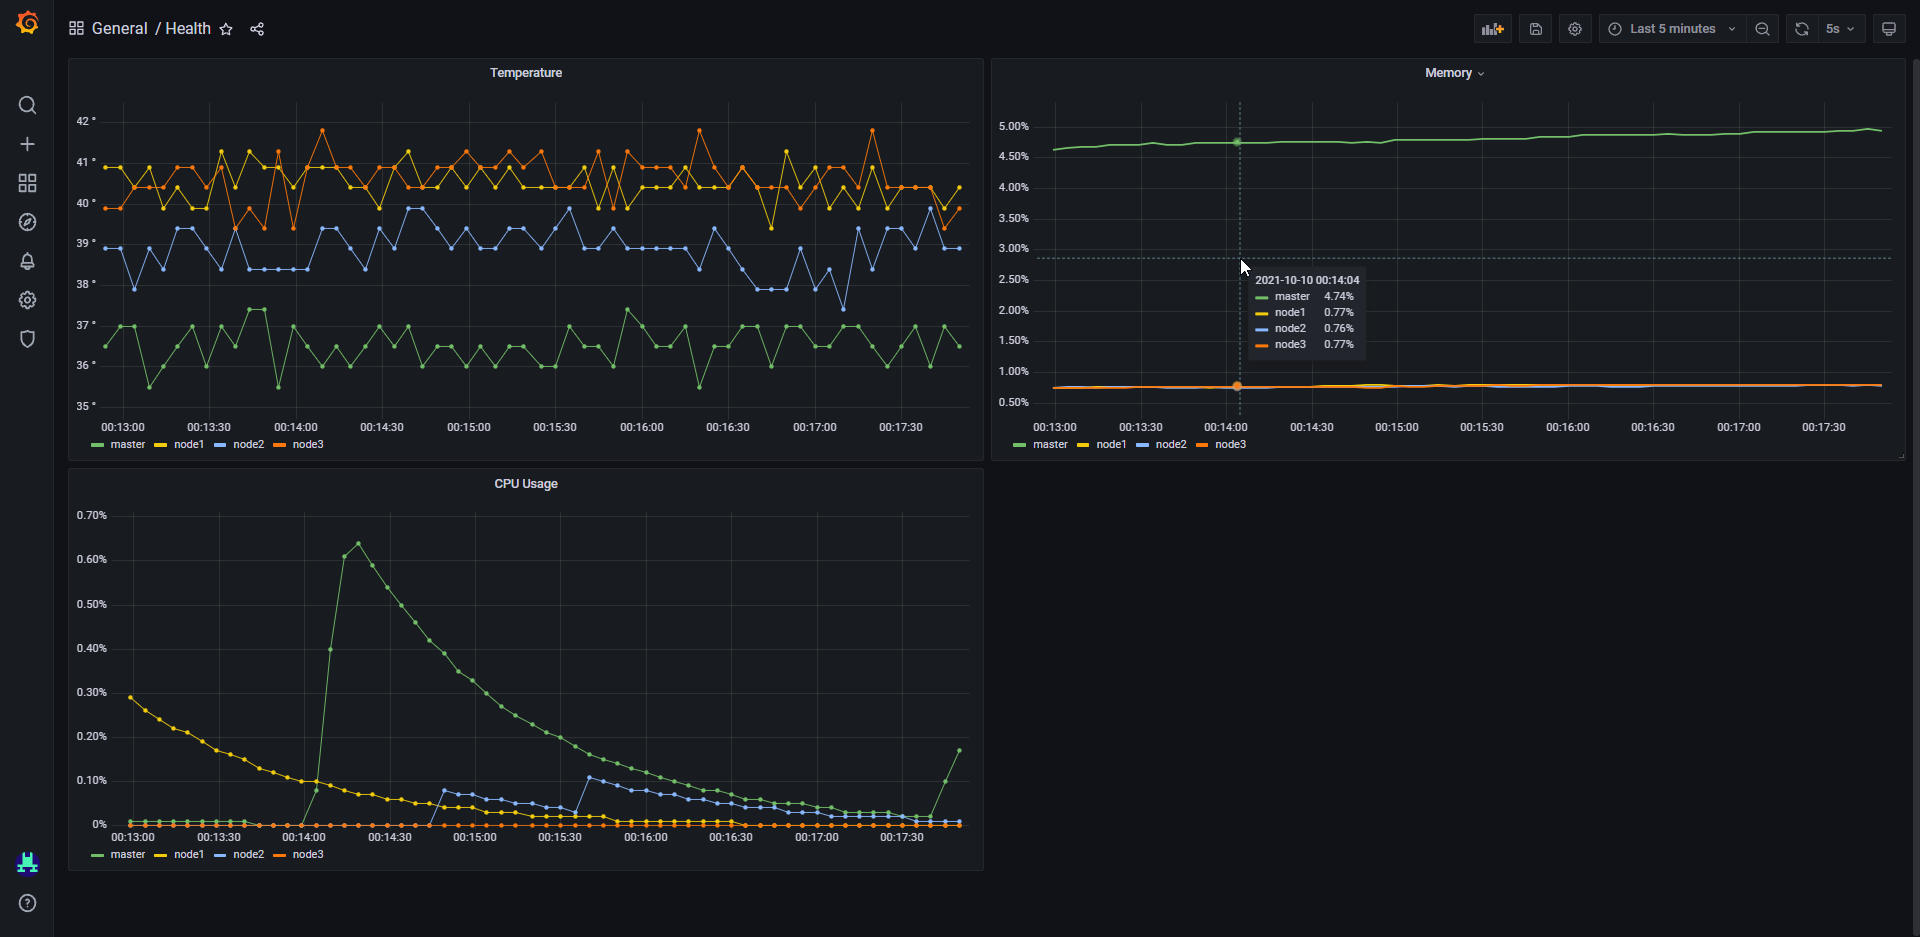
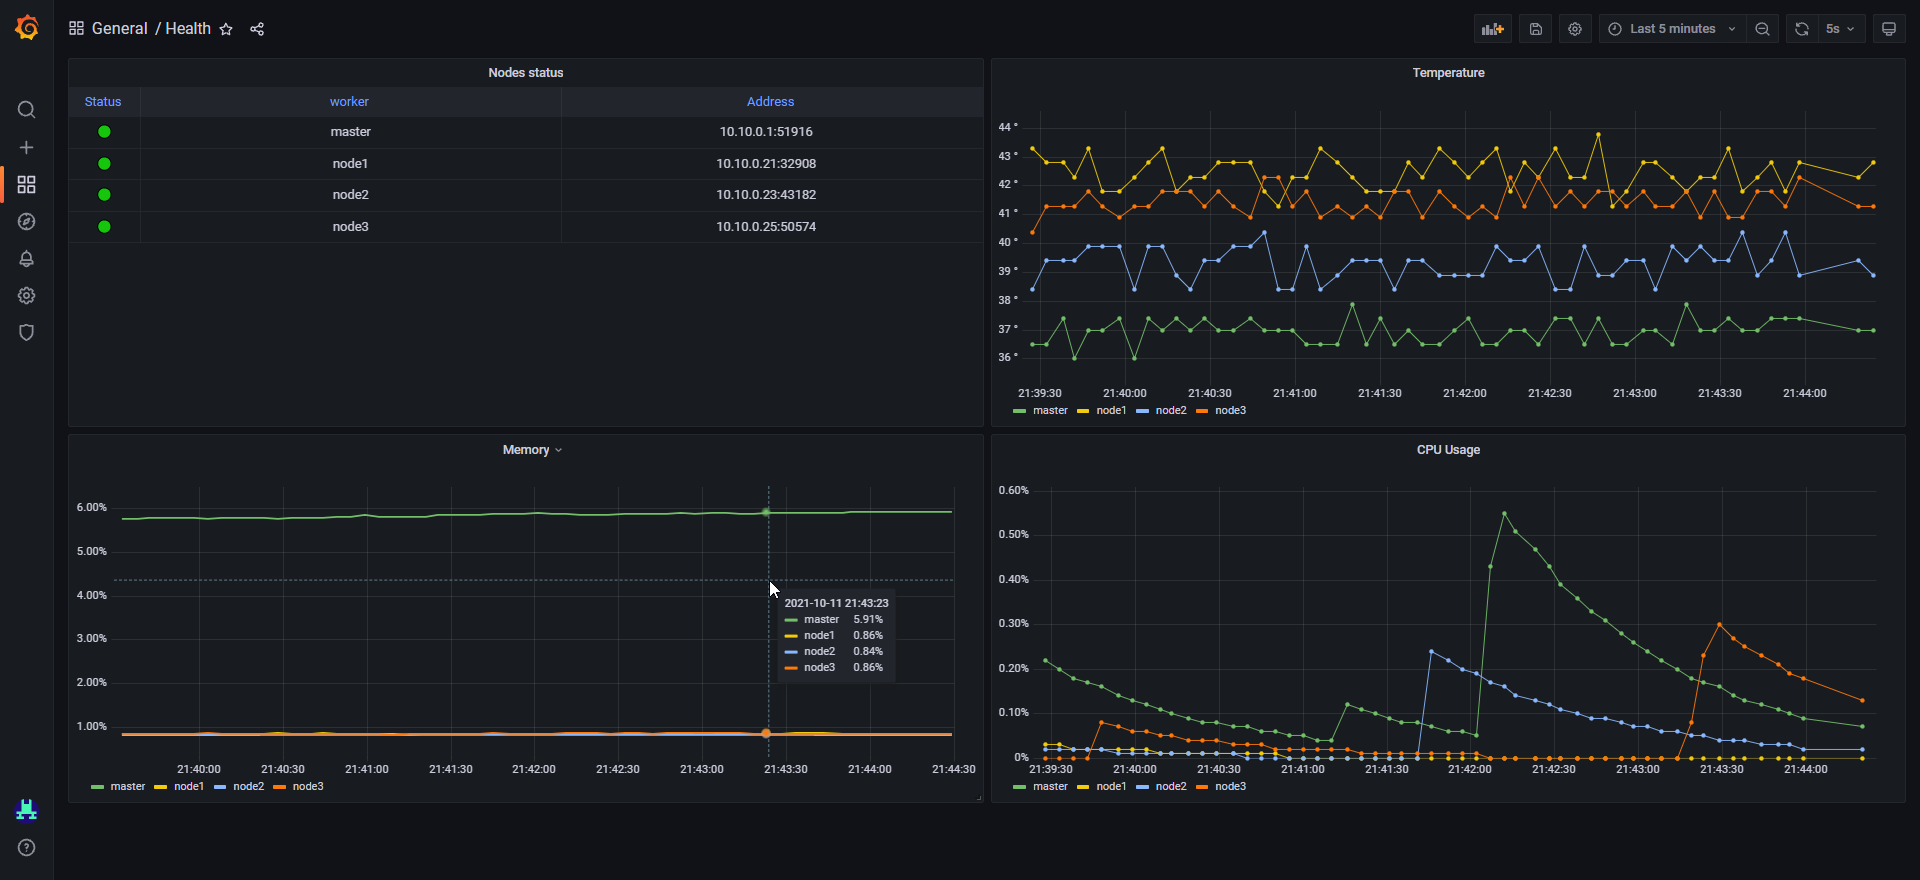
config ip and stop job if worker disconnect

diff --git a/examples/healthInfo.js b/examples/healthInfo.js
@@ -1,10 +1,10 @@
 const fetch = require('node-fetch');
 const Influx = require("influx");
 
-const masterApiAdress = "http://192.168.0.88"
+const masterApiAdress = "http://127.0.0.1"
 
 const influx = new Influx.InfluxDB({
-  host: "192.168.0.88",
+  host: "127.0.0.1",
   database: "clusterdb",
   username: "grafana",
   password: "grafana",
@@ -74,7 +74,6 @@ async function getCpuUsage(w){
 }
 
 async function getWorkerInfo(workers){
-
     let workerIds = workers.map(a => a.id);
 
     let newOnlineWorker = workerIds.filter(x => !previousWorker.includes(x)); // Return all worker not already in previousWorker
@@ -86,24 +85,29 @@ async function getWorkerInfo(workers){
     }
     for (offline of newOfflineWorker){
         writeToDb("info", offline, {online:false, adress:""});
-        previousWorker.splice(workers.findIndex(w => (w.id === offline)), 1);
+        previousWorker.splice(previousWorker.indexOf(offline), 1);
     }
-
-
 }
 
-async function saveJobResult(measurement, poolId){
+async function saveJobResult(measurement, poolId, tryBeforeClean=0){
     pool = await getPool(poolId);
-    if (pool && pool[0].status !== null){ // If all job are done
-        for (let job of pool[0].jobs) {
-            if (job.status === 0){ // If job is done without error we can save result to bdd
-                writeToDb(measurement, job.worker_id,  {value : parseFloat(job.result.match(/[\d.]+/))});
-            } else {
-                console.log("Job in pool "+poolId+" from "+job.worker_id+" finished with error")
+    if (tryBeforeClean !== 50){ // MAX Time to get job done is 50s (50*1000ms)
+        if (pool && pool[0].status !== null){ // If all job are done
+            for (let job of pool[0].jobs) {
+                if (job.status === 0){ // If job is done without error we can save result to bdd
+                    writeToDb(measurement, job.worker_id,  {value : parseFloat(job.result.match(/[\d.]+/))});
+                } else {
+                    console.log("Job in pool "+poolId+" from "+job.worker_id+" finished with error")
+                }
             }
+        } else{
+            setTimeout(function() { 
+                tryBeforeClean = tryBeforeClean+1;
+                saveJobResult(measurement, poolId, tryBeforeClean); 
+            }, 1000); // Retry to get result until status is done
         }
-    } else{
-        setTimeout(function() { saveJobResult(measurement, poolId); }, 1000); // Retry to get result until status is done
+    } else {
+        console.log("Pool "+poolId+" not responding for 50 seconds, pass")
     }
 }
 

diff --git a/master/master.js b/master/master.js
@@ -146,16 +146,16 @@ net.createServer(function(socket) {
     socket.on('error', (err) => {
         if (err.code === 'ECONNRESET'){
             let quitClient =  workersClients.filter(w => { return w.socket.remoteAddress === socket.remoteAddress && w.socket.remotePort === socket.remotePort;});
-            console.error('   [ - ] ' + quitClient[0].id + ' disconnected');
-            workersClients = workersClients.filter(w => { return w.id !== quitClient[0].id; });
+            console.error('   [ ! ] ' + quitClient[0].id + ' ECONNRESET');
         }
-    })
+    });
 
     socket.on('close', (s) => {
         let quitClient =  workersClients.filter(w => { return w.socket.remoteAddress === socket.remoteAddress && w.socket.remotePort === socket.remotePort;});
         console.error('   [ - ] ' + quitClient[0].id + ' disconnected');
         workersClients = workersClients.filter(w => { return w.id !== quitClient[0].id; });
-    })
+        stopAllClientJobs(quitClient[0].id, " Job stopped due to socket close");
+    });
 
 }).listen(masterPort, masterAdress);
 console.log('[ + ] Master listening for worker on ' + masterAdress +':'+ masterPort);
@@ -196,13 +196,26 @@ function killJob(workers, poolId){
     }
 }
 
+function stopAllClientJobs(workerId, errorMessage){
+    for (let pool of poolList) {
+        let poolIndex = poolList.findIndex( p => (p.id === pool.id )); // Search for this pool in poolList
+        let jobIndex = poolList[poolIndex].jobs.findIndex( (j) => j.worker_id === workerId ); // Search for this job in that pool
+        if (jobIndex !== -1 && poolList[poolIndex].jobs[jobIndex].status === null){ // If job exist for this worker and still not finished
+            poolList[poolIndex].jobs[jobIndex].status = 1;
+            poolList[poolIndex].jobs[jobIndex].result += errorMessage;
+            if(poolList[poolIndex].jobs.findIndex( (j) => j.status === null ) === -1) { // If there are no more running job in this pool
+                poolList[poolIndex].status = 1;
+                poolList[poolIndex].cached_at = Math.floor(Date.now()); // Setup cache timestamp
+            }
+        }
+    }
+}
+
 async function cleanPool(){
     poolList = poolList.filter(p => {
         return p.status === null || (p.cached_at+poolRetention) >= Math.floor(Date.now());
     });
 }
-
-
 
 
 
